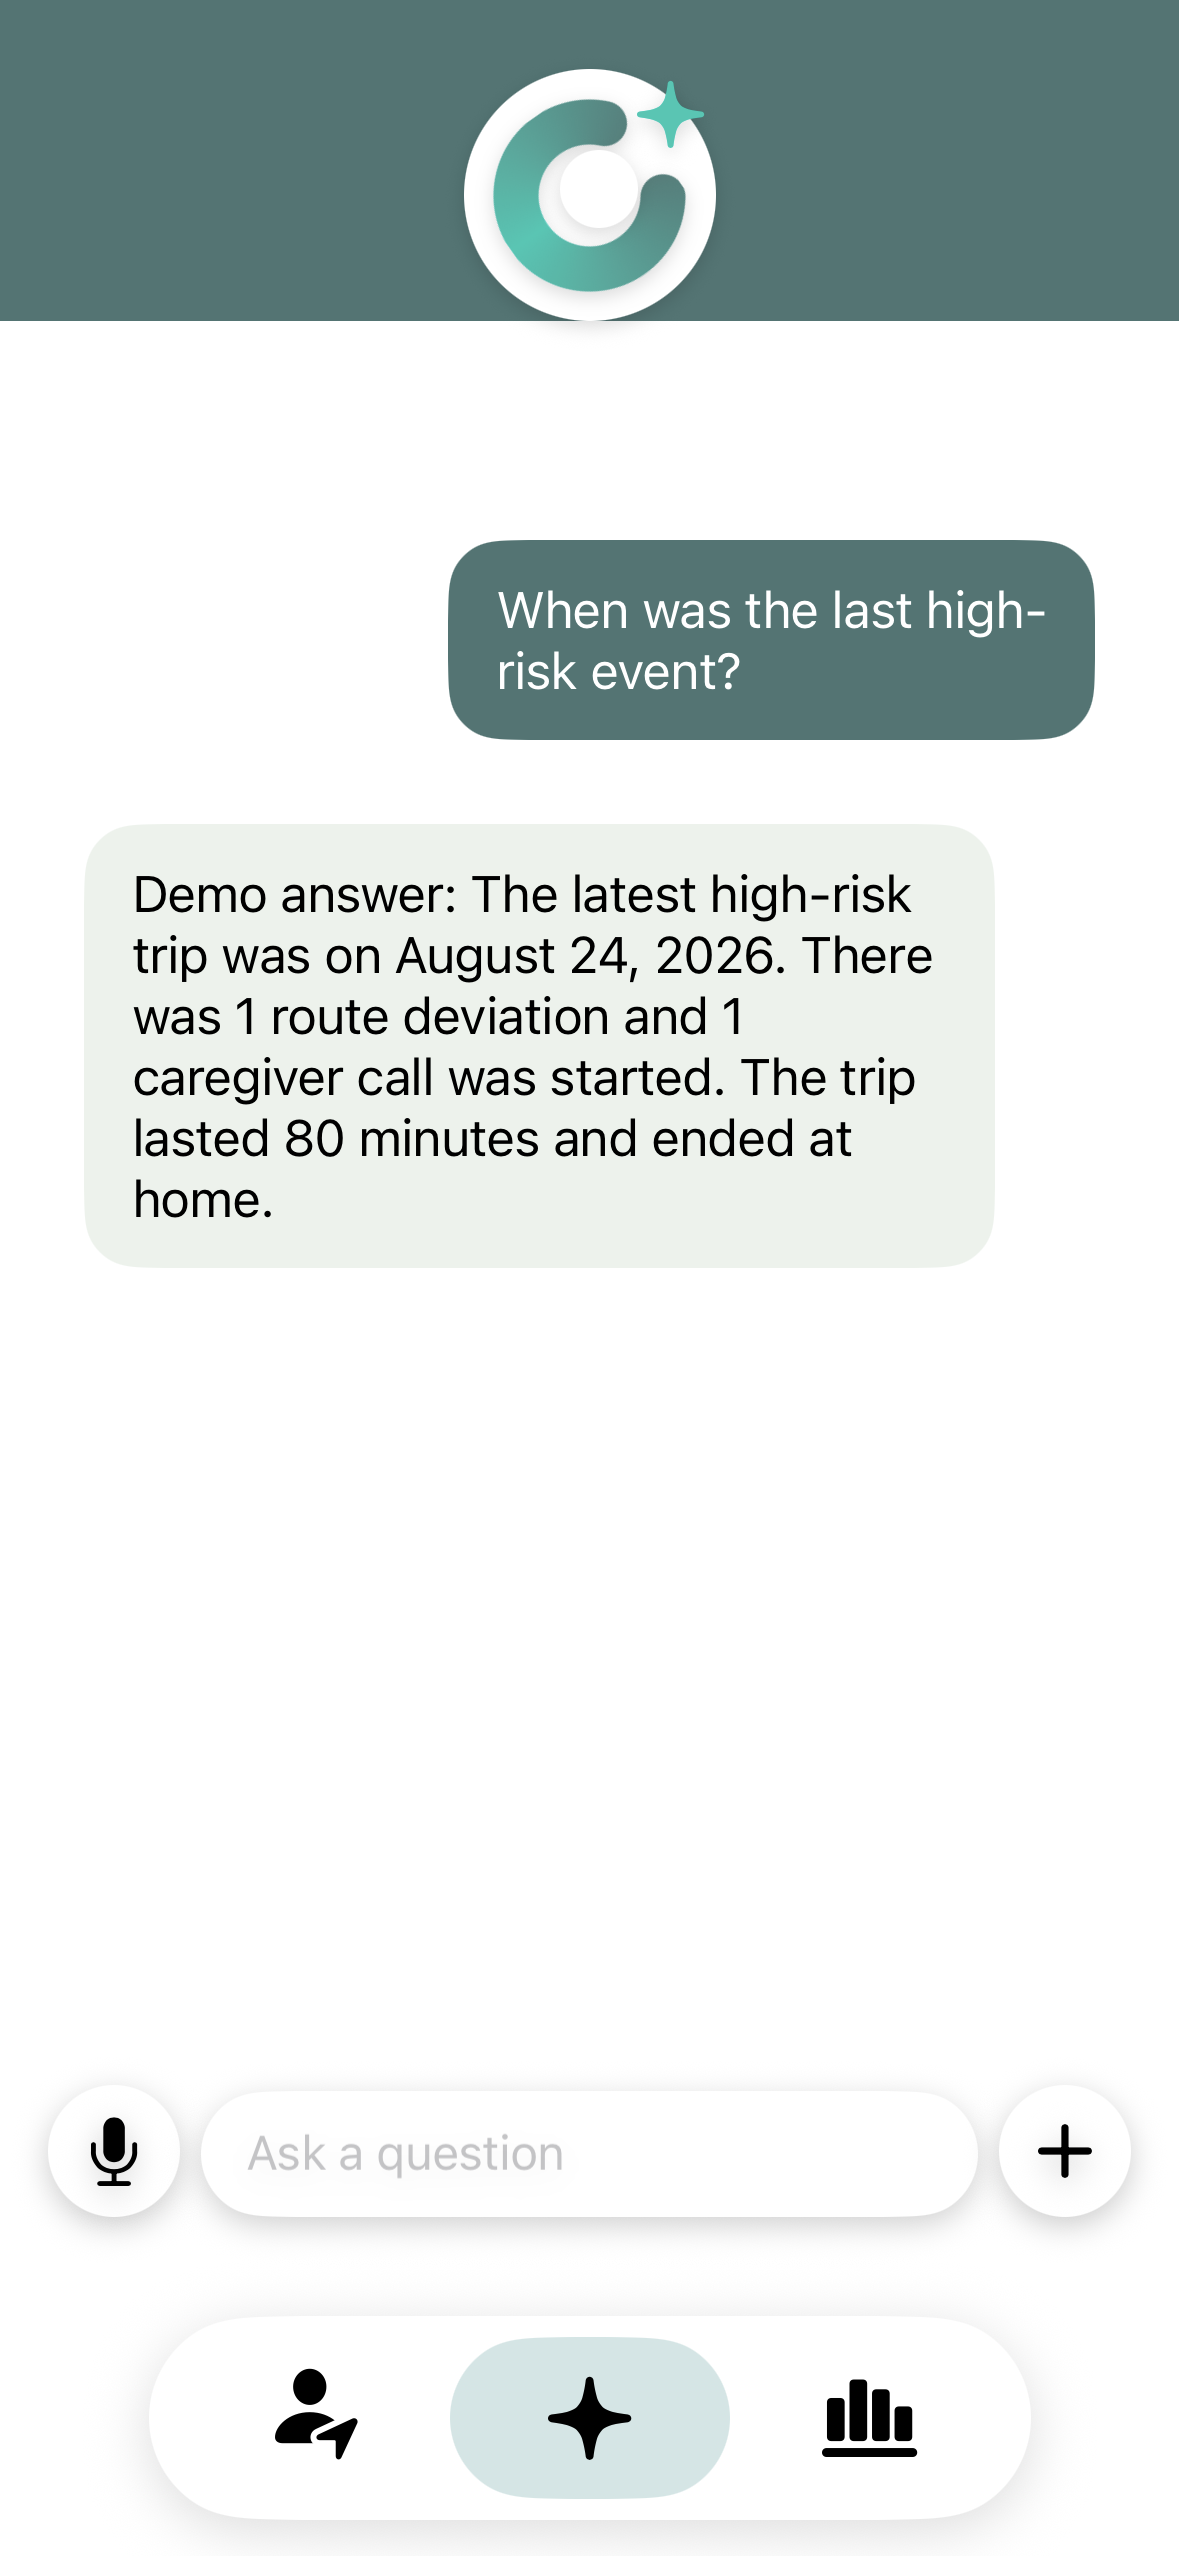
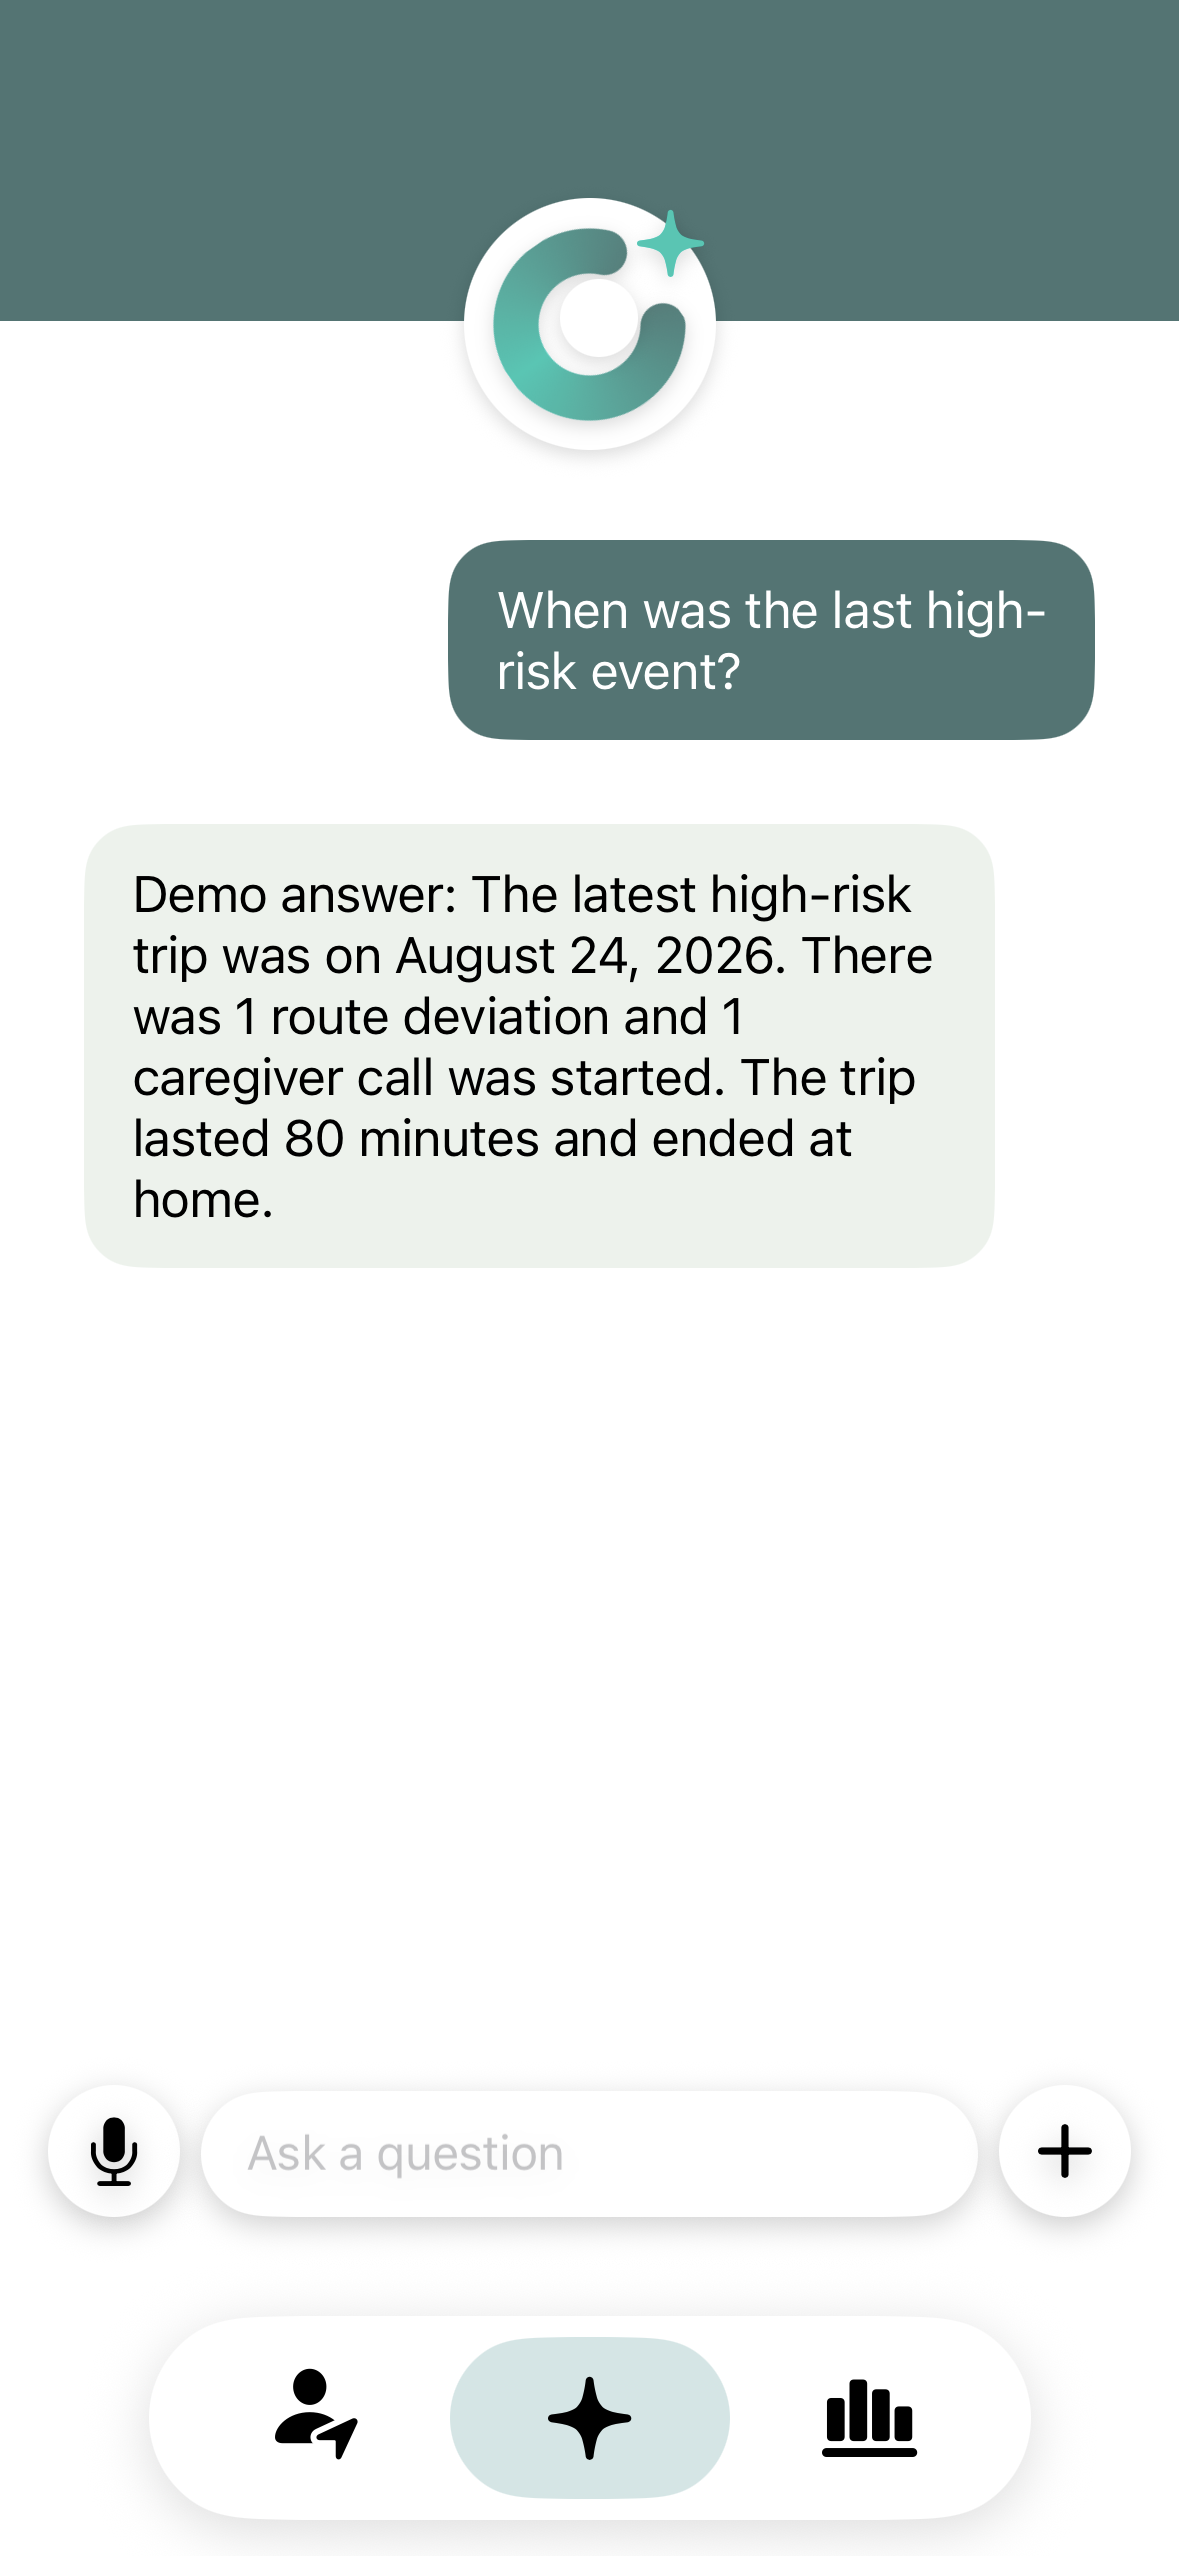
fix: verify SafeOrbit Agent Data and Trend screens

Changed region(s): [[0.3969, 0.0, 0.6107, 0.1854]]

diff --git a/object/ios/SafeOrbit/SpeechInput.swift b/object/ios/SafeOrbit/SpeechInput.swift
@@ -13,7 +13,7 @@ import Speech
     private var tapInstalled = false
 
     func toggle() async {
-        if listening { stop(); return }
+        if listening { stop(showEmptyResult: true); return }
         await start()
     }
 
@@ -42,11 +42,19 @@ import Speech
             let session = AVAudioSession.sharedInstance()
             try session.setCategory(.record, mode: .measurement, options: .duckOthers)
             try session.setActive(true, options: .notifyOthersOnDeactivation)
+            let input = engine.inputNode
+            let hardwareFormat = input.inputFormat(forBus: 0)
+            let format = input.outputFormat(forBus: 0)
+            guard session.isInputAvailable,
+                  hardwareFormat.sampleRate > 0, hardwareFormat.channelCount > 0,
+                  format.sampleRate > 0, format.channelCount > 0 else {
+                message = "No microphone input is available on this device."
+                try? session.setActive(false, options: .notifyOthersOnDeactivation)
+                return
+            }
             let request = SFSpeechAudioBufferRecognitionRequest()
             request.shouldReportPartialResults = true
             self.request = request
-            let input = engine.inputNode
-            let format = input.outputFormat(forBus: 0)
             input.installTap(onBus: 0, bufferSize: 1024, format: format) { buffer, _ in
                 request.append(buffer)
             }
@@ -57,10 +65,10 @@ import Speech
             transcript = ""
             task = recognizer.recognitionTask(with: request) { [weak self] result, error in
                 Task { @MainActor [weak self] in
-                    guard let self else { return }
+                    guard let self, self.listening else { return }
                     if let result {
                         self.transcript = result.bestTranscription.formattedString
-                        if result.isFinal { self.stop() }
+                        if result.isFinal { self.stop(showEmptyResult: true); return }
                     }
                     if error != nil {
                         self.message = self.transcript.isEmpty ? "Could not understand the recording. Try again." : nil
@@ -74,8 +82,9 @@ import Speech
         }
     }
 
-    func stop() {
+    func stop(showEmptyResult: Bool = false) {
         guard listening || engine.isRunning || tapInstalled || task != nil || request != nil else { return }
+        let hadNoWords = listening && transcript.trimmingCharacters(in: .whitespacesAndNewlines).isEmpty
         if engine.isRunning { engine.stop() }
         if tapInstalled { engine.inputNode.removeTap(onBus: 0); tapInstalled = false }
         request?.endAudio()
@@ -84,5 +93,8 @@ import Speech
         request = nil
         listening = false
         try? AVAudioSession.sharedInstance().setActive(false, options: .notifyOthersOnDeactivation)
+        if showEmptyResult && hadNoWords && message == nil {
+            message = "No speech was recognized. Try again."
+        }
     }
 }

diff --git a/object/ios/SafeOrbitTests/RecordsTests.swift b/object/ios/SafeOrbitTests/RecordsTests.swift
@@ -39,7 +39,9 @@ final class RecordsTests: XCTestCase {
         try FileManager.default.createDirectory(at: folder, withIntermediateDirectories: true)
         let screens: [(String, CGSize, DynamicTypeSize, AnyView)] = [
             ("agent-chat", CGSize(width: 393, height: 852), .large,
-             AnyView(AgentChatPage(keyboardVisible: false))),
+             AnyView(NavigationStack {
+                 AgentChatPage(keyboardVisible: false).toolbar(.hidden, for: .navigationBar)
+             })),
             ("records-data", CGSize(width: 393, height: 852), .large,
              AnyView(RecordsPage())),
             ("records-trend", CGSize(width: 393, height: 852), .large,

diff --git a/object/ios/SafeOrbit/AgentChatUI.swift b/object/ios/SafeOrbit/AgentChatUI.swift
@@ -23,7 +23,7 @@ struct AgentChatPage: View {
                     Circle().fill(.white).frame(width: 84, height: 84)
                         .overlay { agentMark }
                         .shadow(color: .black.opacity(0.14), radius: 3, y: 2)
-                        .offset(y: 0)
+                        .offset(y: 43)
                 }
                 .background(OrbitStyle.teal.ignoresSafeArea(edges: .top))
                 .zIndex(1)

diff --git a/queue/tasks/T9/task.md b/queue/tasks/T9/task.md
@@ -3,7 +3,7 @@
 ```json
 {
   "id": "T9",
-  "revision": 97,
+  "revision": 101,
   "assignee": "Codex",
   "parent": null,
   "deps": [],
@@ -25,12 +25,15 @@
 
 - [approval-001.md](approval-001.md)
 - [receipt-000097.md](receipt-000097.md)
+- [receipt-000101.md](receipt-000101.md)
 
 ## 过程记录
 
 - #95｜create｜Codex｜{"authority": {"basis": "用户明确要求实施已确认的 AI 对话、Data 与 Trend 前端方案，包含全会话样例和系统语音转文字", "by": "用户"}, "deps": [], "id": "T9", "parent": null, "proposal": {"criteria": "| 编号 | 可观察结果 | 验证方法 | 通过条件 |\n|---|---|---|---|\n| A1 | Agent 对话完整，常用问题与语音可用 | 模拟器提问、发送、权限拒绝与识别失败；模型测试 | 固定问题有来自样例的明确演示回答，其他问题不编造；识别文字可编辑后发送 |\n| A2 | Data 月历、周列表与详情可操作 | 对照 07、08 图实走月份、周、展开、日期、详情；截图和测试 | 所有入口可达，风险与时间线一致，布局接近参考图 |\n| A3 | Trend 指标与图表正确 | 对照 09 图、模型断言与截图 | 8 周折线、四项指标和月度变化均从统一样例计算 |\n| A4 | 导航和既有功能不回退 | 完整 iOS 测试、Release 构建、小屏与大字截图 | 运行检查通过，无明显遮挡或触控问题 |\n\n验收安排：执行者记录命令、退出码、原样输出摘录及截图，自验标“未独立验证”；用户最终验收。", "origin": "用户明确要求实施 AI 对话、Data 与 Trend 前端方案，对照 reference/ui/05-agent@2x.png、07-recording@2x.png、08-this-week@2x.png、09-trend@2x.png 还原页面。用户选择所有会话显示同一份固定样例，记录和趋势页不标注演示；对话限定常用问题并对样例回答作演示说明；语音输入使用 iOS 系统识别。", "plan": "1. 核验并登记 T8 当前交付，登记、批准并领取本任务。\n2. 建立统一演示记录和回答规则；实现 Agent、Data、出行详情和 Trend 页面并接入底栏。\n3. 接入 iOS 系统语音识别与权限说明，补充交互和模型测试。\n4. 在 iPhone 模拟器核对参考图、小屏、大字与键盘，完成完整测试和 Release 构建；记录回执并本地提交，不推送。", "scope": "- 要交付：替换 Agent 与 Records 占位页；Agent 有聊天气泡、文字输入、发送、滚动、常用问题、语音转可编辑文字及权限/失败状态；Data 有月历风险着色、月份和周切换、本周记录展开、按日期筛选、出行详情地图及事件时间线；Trend 有最近 8 周折线、月度比较、四项指标和规律描述。统一固定的 2026 年 8 月样例用于 Data、Trend、常用问答，日期与数字一致；所有会话显示样例，Data 和 Trend 不标注演示。页面沿用底部导航及英文界面，完成小屏和大字适配。\n- 不包含：后端接口、真实 AI 推理、真实出行数据、跨设备同步、业务风险判定、真机录音实测、truth/reference 改动、推送。\n- 允许修改的位置：object/ios/ 的 SwiftUI 源码、页面模型、Info.plist、工程配置、相关测试、资源与说明；必要时 object/dev/generate-ios.mjs；队列记录只经工具维护。", "title": "家属端 AI 对话、Data 与 Trend 前端"}}
 - #96｜claim｜Codex｜{"expect": 95, "id": "T9"}
[1 lines of base64/hex data omitted]
+- #100｜rework｜Codex｜{"basis": "模拟器实走发现Agent顶部标志被灵动岛遮挡，且手动停止无语音结果时缺少明确提示；在原批准范围内修复并重验", "expect": 97, "id": "T9"}
[1 lines of base64/hex data omitted]
 
 ## 接手说明
 

diff --git a/queue/tasks/T9/receipt-000101.md b/queue/tasks/T9/receipt-000101.md
@@ -1,0 +1,15 @@
+# T9 AI 对话、Data 与 Trend 前端复验交付
+
+原交付实现了 Agent、Data、出行详情、Trend 与统一的 2026 年 8 月样例，详见 receipt-000097.md。本轮在 iPhone 18 Pro（iOS 27.0）模拟器实走后，修复 Agent 顶部标志被灵动岛遮住的问题，补上停止听写但没有识别到文字时的提示，并在无可用麦克风输入时阻止系统音频框架抛异常导致应用退出。截图测试现用与实际页面相同的导航容器。Xcode 更新了字符串目录中的页面文字与权限说明；没有新增第三方依赖、后端接口或推送。
+
+## 验证事实（执行者自验，未独立验证）
+
+在模拟器中以家属身份进入三标签页面：Agent 快捷问题返回来自固定样例的“Demo answer”；输入未知天气问题并发送，回答明确表示没有可核对的记录。Data 前后月切换到 2026 年 7 月和 8 月、选中 8 月 24 日筛出一条高风险出行、打开详情并返回、展开和收起记录、切换到 8 月 16–22 日再返回 23–29 日，均可操作；详情包含虚线轨迹、异常位置、统计标签和 9:05–10:25 事件线。Trend 显示八周图、4 次偏离、-20% 月度变化、四项指标和 17 次出行中 3 次周一出行的规律卡，并可滚动查看完整内容。Agent 输入框获得焦点并显示系统软件键盘时，输入栏位于键盘上方，底栏收起。更新后的 [Agent 截图](../../../object/ios/Verification/T9/agent-chat.png) 显示标志完整位于顶部青绿与白色交界；其余 Data、详情、Trend、小屏大字截图沿用上一回执并已对照参考图。
+
+语音权限拒绝时显示可去设置开启的提示；在系统设置重新允许语音识别后，麦克风首次授权提示正常出现。允许后，模拟器当前没有可用音频输入，原代码在 `AVAudioNode.installTap` 处导致应用退出；崩溃记录指向 `SpeechInput.start()`。修复后点击麦克风显示 `No microphone input is available on this device.`，应用不再退出。设备缺少输入，因此无法在此模拟器实测真实语音转文字、识别中断与有音频输入后的空结果；相关状态在代码中处理，真机录音实测不在本任务范围内。
+
+原样命令：`xcodebuild -project object/ios/SafeOrbit.xcodeproj -scheme SafeOrbit -destination 'platform=iOS Simulator,id=DFC762F4-52D3-4703-8AFF-7625E0843313' -derivedDataPath object/ios/DerivedData -parallel-testing-enabled NO CODE_SIGNING_ALLOWED=YES CODE_SIGN_IDENTITY=- test > /private/tmp/safeorbit-t9-rework-final-test.log 2>&1`；退出码 0。原样输出摘录：`Executed 28 tests, with 0 failures (0 unexpected) in 38.920 (38.932) seconds`、`** TEST SUCCEEDED **`。
+
+原样命令：`xcodebuild -project object/ios/SafeOrbit.xcodeproj -scheme SafeOrbit -configuration Release -sdk iphonesimulator -derivedDataPath object/ios/DerivedData CODE_SIGNING_ALLOWED=NO build > /private/tmp/safeorbit-t9-rework-release.log 2>&1`；退出码 0。原样输出摘录：`** BUILD SUCCEEDED **`。
+
+`git diff --check`；退出码 0，无输出。所有数字来自同一份样例，模型一致性测试通过。T8 的用户验收仍单独处理，本任务也尚未经用户验收。
